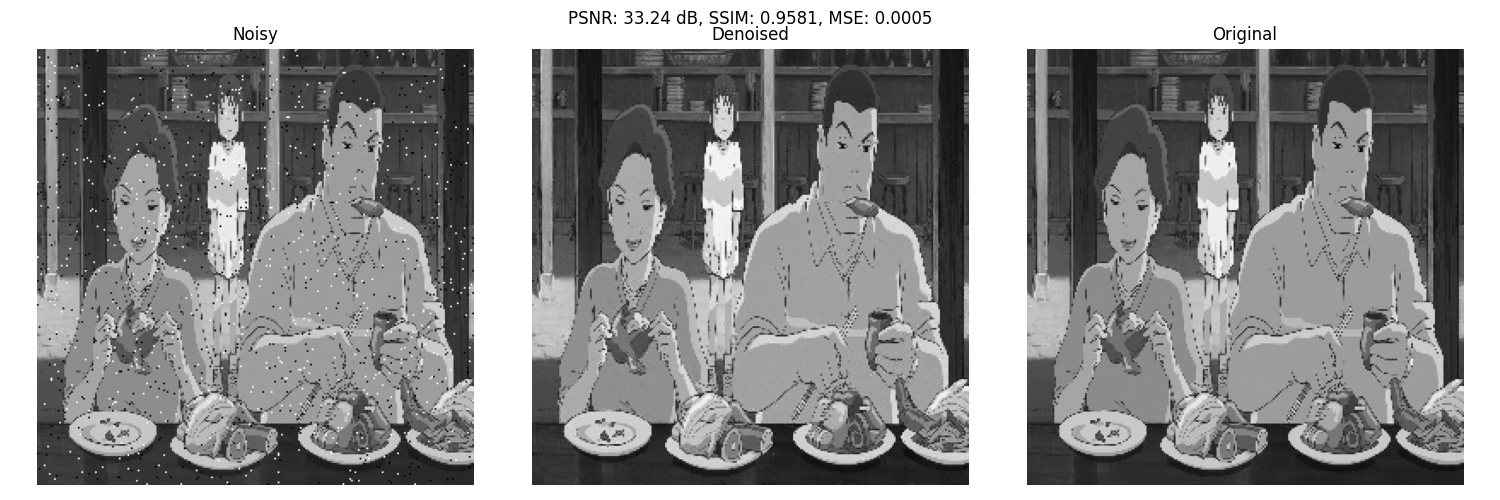
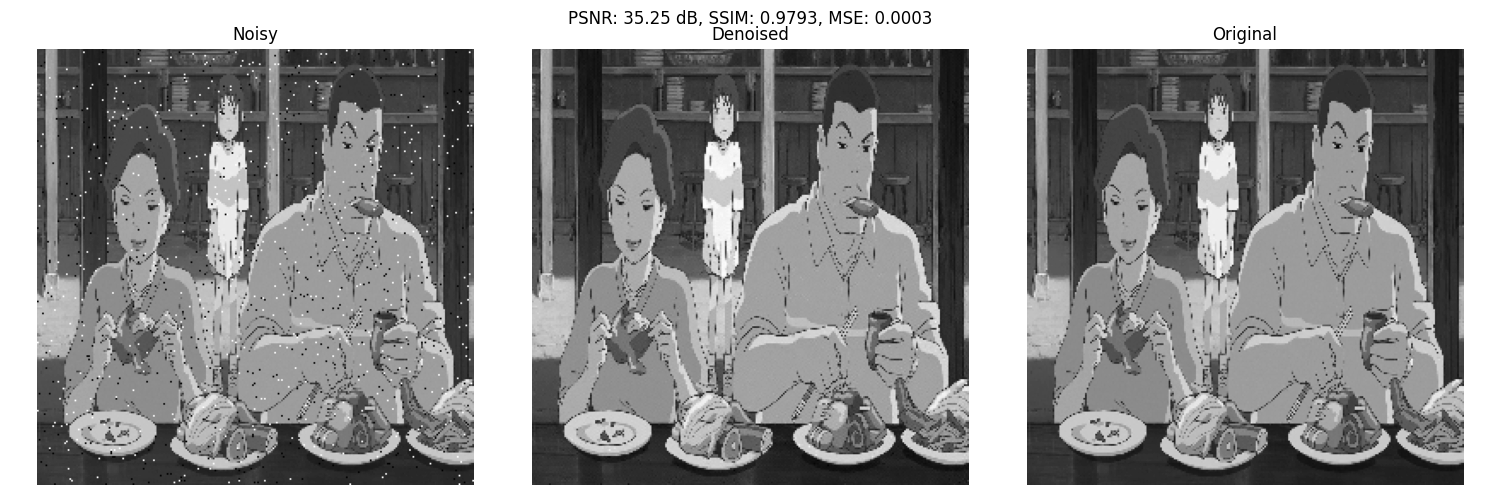
25/01/16

diff --git a/DenoiseImages-NoOrignal.py b/DenoiseImages-NoOrignal.py
@@ -55,7 +55,7 @@ def unet_generator(input_size=(256, 256, 1)):
 
 # 載入已訓練好的生成器權重
 generator = unet_generator()
-model_weights = 'D:\\GitHub\\Denoise\\training_checkpoints\\generator_epoch_39'
+model_weights = 'C:\\Users\\Wayne\\Documents\\GitHub\\Denoise-Project\\training_checkpoints\\generator_epoch_30'
 # model_weights = 'best_generator_model.h5'
 generator.load_weights(model_weights)  # 請替換為您的實際權重檔路徑
 
@@ -71,16 +71,16 @@ def load_images_from_folder(folder, target_size=(256, 256)):
     return np.array(images), filenames
 
 # 指定雜訊圖像資料夾
-noisy_folder = 'D:\\Flicker2K\\DenoiseImage\\NoisyImages'  # 請根據實際狀況修改
+noisy_folder = 'D:\\GitHub\\Noise'  # 請根據實際狀況修改
 noisy_images, noisy_filenames = load_images_from_folder(noisy_folder)
 print(f"共加載 {len(noisy_images)} 張雜訊圖像，開始去雜訊...")
 
-denoised_output_folder = 'D:\\Flicker2K\\DenoiseImage\\DenoisedImages'
+denoised_output_folder = 'C:\\Users\\Wayne\\Documents\\GitHub\\Denoise-Project\\Visualization_result_no'
 if not os.path.exists(denoised_output_folder):
     os.makedirs(denoised_output_folder)
 
 # 新增一個資料夾來儲存可視化結果
-visualization_output_folder = 'D:\\GitHub\\Denoise\\Visualization_results.py'
+visualization_output_folder = 'C:\\Users\\Wayne\\Documents\\GitHub\\Denoise-Project\\Visualization_result_no'
 if not os.path.exists(visualization_output_folder):
     os.makedirs(visualization_output_folder)
 

diff --git a/3-Noise.py b/3-Noise.py
@@ -17,7 +17,7 @@ def add_noise(image):
     if noise_type == 'gaussian':
         # 高斯雜訊
         mean = 0
-        sigma = random.randint(5, 30)
+        sigma = random.randint(10, 50)
         gauss = np.random.normal(mean, sigma, image.shape).astype(np.int16)
         noisy_image = image.astype(np.int16) + gauss
         noisy_image = np.clip(noisy_image, 0, 255).astype(np.uint8)
@@ -25,7 +25,7 @@ def add_noise(image):
     elif noise_type == 'salt_pepper':
         # 椒鹽雜訊
         s_vs_p = 0.5
-        amount = random.uniform(0.001, 0.03)
+        amount = random.uniform(0.01, 0.05)
         noisy_image = np.copy(image)
         
         # 添加鹽雜訊
@@ -40,7 +40,7 @@ def add_noise(image):
 
     else:  # uniform noise
         # 均勻分佈雜訊
-        noise_level = random.randint(0, 30)
+        noise_level = random.randint(10, 40)
         uniform_noise = np.random.randint(-noise_level, noise_level + 1, image.shape).astype(np.int16)
         noisy_image = image.astype(np.int16) + uniform_noise
         noisy_image = np.clip(noisy_image, 0, 255).astype(np.uint8)

diff --git a/DenoiseImages.py b/DenoiseImages.py
@@ -83,7 +83,7 @@ def load_images_from_folder(folder, target_size=(256, 256)):
 
 original_folder = 'D:\\GitHub\\Grayscale'
 noisy_folder = 'D:\\GitHub\\Noise'
-denoised_output_folder = 'D:\\GitHub\\Denoise'
+denoised_output_folder = 'C:\\Users\\Wayne\\Documents\\GitHub\\Denoise-Project\\Visualization_result'
 
 if not os.path.exists(denoised_output_folder):
     os.makedirs(denoised_output_folder)
@@ -107,7 +107,7 @@ mse_list = []
 num_images_to_visualize = 5
 
 # 新增可視化存檔路徑
-visualization_save_folder = 'D:\\GitHub\\Denoise\\Visualization_result'
+visualization_save_folder = 'C:\\Users\\Wayne\\Documents\\GitHub\\Denoise-Project\\Visualization_result'
 if not os.path.exists(visualization_save_folder):
     os.makedirs(visualization_save_folder)
 
